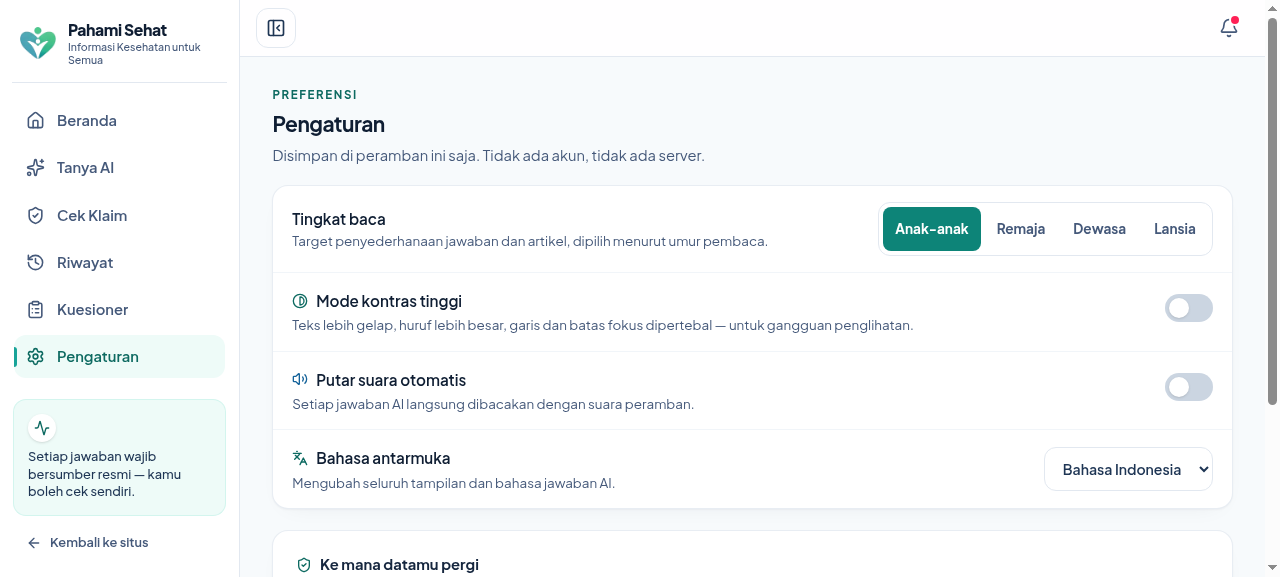
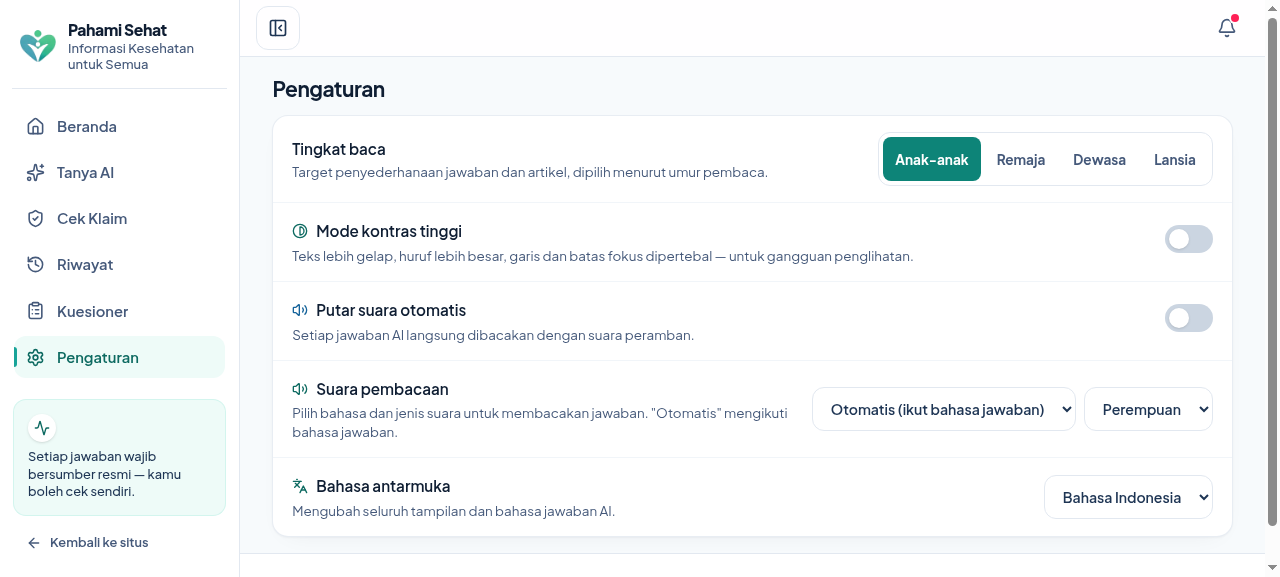
Perbarui README sesuai keadaan project 20 Okt 2026
Semua angka diukur ulang di sesi ini, bukan dikutip dari ingatan:

- jumlah uji: 17 -> 15 berkas (14 tanpa jaringan), 560 pemeriksaan
- berkas server: 22 -> 19 (akun.js, google.js, ruteAkun.js sudah dihapus)
- isi database: dokumen 79 -> 88, sitasi 246 -> 351, konten 6 -> 7
- kamus: 303 kunci per bahasa
- langkah CI: 23 (terukur lewat gh run view), sebelumnya 25
- suara lokal: 200 audio/mpeg, 24 kHz 48 kbps, 17.424 byte, 0,80 detik
- gzip /api/konten: 6.137 -> 1.912 byte (hemat 69%)
- X-Waktu-Ms /api/meta: 1,1 ms
- DB_MATI=1: health/konten/berita 200, tanya 200 (1.359 karakter, 5 sumber)
- produksi Vercel: app 200 tanpa halaman masuk, tanya 200 (1.023 karakter,
  4 sumber, 6,86 detik), suara 502, /api/akun/saya 404

Ikut dibetulkan:
- diagram Mermaid masih merujuk node T5/T7/T8 yang tabelnya sudah dihapus
- kalimat 'permintaan pengguna' dan 'jangan mencari set.privasi*' dihapus dari
  README publik; diganti pernyataan keadaan
- tangkapan layar Pengaturan diambil ulang karena gambar lama masih
  menampilkan kartu 'Ke mana datamu pergi' yang sudah dihapus

Diperiksa: tidak ada nama persona, tidak ada rahasia, semua gambar dan
tautan relatif ada, build hijau.

diff --git a/README.md b/README.md
@@ -10,7 +10,7 @@ sampai dan tidak dipahami oleh yang paling membutuhkan.
 > (`deepseek-v4-1-flash` lewat Kenari.id) dari server Express sendiri, dan
 > setiap jawaban disertai sumber yang bisa dibuka pengguna.
 >
-> **Status tiap fitur — apa adanya (diperiksa ulang 18 Okt 2026):**
+> **Status tiap fitur — apa adanya (diperiksa ulang 20 Okt 2026):**
 >
 > | Fitur | Keadaan |
 > |---|---|
@@ -18,7 +18,7 @@ sampai dan tidak dipahami oleh yang paling membutuhkan.
 > | Tanya AI + sumber | berjalan. Pencarian memakai kata kunci terpilih, bukan kalimat pengguna apa adanya |
 > | Sederhanakan teks | berjalan (4 tingkat baca), menjadi salah satu mode di komposer Tanya AI |
 > | Cek klaim | berjalan (verdict + sumber) |
-> | Suara dibacakan | **berjalan sebagai suara neural Microsoft — hanya di versi yang dijalankan di komputer sendiri.** Diukur ulang 18 Okt 2026: `POST /api/suara` menjawab `200 audio/mpeg`, berkas 24 kHz mono, 24.048 byte untuk satu kalimat, 1,08 detik. Di Vercel tetap **`502`** (diukur ulang 18 Okt 2026) karena fungsi serverless tidak bisa mempertahankan WebSocket — batas platform, bukan bug. Rincian: `app/server/suara.js` |
+> | Suara dibacakan | **berjalan sebagai suara neural Microsoft — hanya di versi yang dijalankan di komputer sendiri.** Diukur ulang 20 Okt 2026: `POST /api/suara` menjawab `200 audio/mpeg`, berkas 24 kHz mono 48 kbps, 17.424 byte untuk satu kalimat, 0,80 detik. Di Vercel tetap **`502`** (diukur ulang 20 Okt 2026) karena fungsi serverless tidak bisa mempertahankan WebSocket — batas platform, bukan bug. Rincian: `app/server/suara.js` |
 > | Input suara (bicara) | berjalan lewat Web Speech API bawaan peramban. **Butuh Chrome atau Edge**: Brave memblokir layanan suara daring Google, dan Firefox belum menyediakannya. Butuh konteks aman (`https://` atau `localhost`) |
 > | Pindai foto / OCR | berjalan, **seluruhnya di peramban**. Foto tidak pernah dikirim ke server, dan fitur ini tetap jalan tanpa internet. Batasnya disebut apa adanya di aplikasi: alat bantu baca, bukan pengganti dokumen asli |
 > | Riwayat obrolan | berjalan. Tersimpan di peramban (bukan server), maksimal **20 obrolan** (`MAKS_SESI` di `app/src/lib/sesi.js`). Bisa **dihapus satu per satu atau sekaligus**, dan penghapusan **bisa dibatalkan**. **Tidak lagi ditampilkan di Beranda** — hanya lewat menu **Riwayat** |
@@ -141,7 +141,7 @@ pahami-sehat/
 ├── README.md
 ├── jalankan-online.sh         ← build + server + Cloudflare Tunnel
 ├── siapkan-domain.sh          ← INERT: hanya untuk named tunnel (lihat catatan)
-├── uji-*.mjs                  ← 17 berkas uji (16 tanpa jaringan)
+├── uji-*.mjs                  ← 15 berkas uji (14 tanpa jaringan)
 ├── ukur-*.mjs                 ← pengukuran untuk memilih angka batas
 ├── verifikasi-judul.mjs
 ├── periksa-istilah.mjs
@@ -152,7 +152,7 @@ pahami-sehat/
 │   ├── .env.example
 │   ├── public/ocr/            ← mesin OCR: worker, core WASM, data bahasa (17 MB)
 │   ├── scripts/               ← salin-prototipe.mjs (prebuild)
-│   ├── server/                ← backend Express (22 berkas)
+│   ├── server/                ← backend Express (19 berkas)
 │   ├── src/                   ← frontend React: App.jsx, lib/, data/, components/
 │   ├── api/index.js           ← pintu masuk serverless Vercel
 │   ├── index.html
@@ -229,14 +229,11 @@ flowchart TB
   DBJ --> T3
   DBJ --> T4
   DBJ --> T6
-  DBJ -.->|"tersimpan, belum disambungkan"| T8
 
   classDef store fill:#eef,stroke:#446,color:#113
   classDef opsional fill:#ffe9c9,stroke:#a63,color:#420,stroke-dasharray:4 3
   class LS store
   class T1,T2,T3,T4,T6 store
-  class T7 opsional
-  class T5,T8 opsional
   class DBJ opsional
 ```
 
@@ -271,9 +268,9 @@ flowchart TB
 ### Tanpa akun — tidak ada gerbang masuk
 
 Diperiksa 20 Okt 2026: **aplikasi langsung terbuka di Beranda.** Tidak ada
-halaman masuk, pendaftaran, kata sandi, sesi, atau cookie. Permintaan jagi:
-hapus halaman login beserta seluruh bagian yang menopangnya, supaya tidak ada
-sisa gerbang yang bisa muncul lagi.
+halaman masuk, pendaftaran, kata sandi, sesi, atau cookie. Halaman login dihapus
+beserta seluruh bagian yang menopangnya, supaya tidak ada sisa gerbang yang bisa
+muncul lagi.
 
 Yang ikut dihapus, bukan hanya disembunyikan:
 
@@ -315,13 +312,14 @@ XAMPP) dipakai untuk menyimpan **bahan**, bukan percakapan pengguna. Kalau
 MariaDB mati, bahan tetap tersaji memakai berkas cache — `app/server/db.js`
 mengembalikan `null` alih-alih melempar galat.
 
-Dibuktikan ulang 18 Okt 2026 dengan `DB_MATI=1`:
+Dibuktikan ulang 20 Okt 2026 dengan `DB_MATI=1`:
 
 | Yang diperiksa | Hasil |
 |---|---|
 | `GET /api/health` | **HTTP 200**, `{"db":{"aktif":false,"alasan":"dimatikan lewat DB_MATI=1"}}` |
 | `GET /api/konten` | **HTTP 200** |
-| `POST /api/tanya` | **HTTP 200** dalam 9,25 detik, jawaban 732 karakter, **3 sumber** |
+| `GET /api/berita/ringkas` | **HTTP 200** |
+| `POST /api/tanya` | **HTTP 200**, jawaban 1.359 karakter, **5 sumber** |
 | `GET /api/akun/saya` | **HTTP 404** — rute akun sudah tidak ada |
 
 #### Yang disimpan di database
@@ -339,10 +337,10 @@ menjalankan `DROP TABLE IF EXISTS riwayat, setelan, pengguna` untuk
 membersihkan sisa pemasangan lama — jadi tidak ada tabel identitas yang bisa
 terisi lagi tanpa sengaja.
 
-Isi database pada 18 Okt 2026 (hitungan langsung, bukan perkiraan):
-`pengetahuan` **331** baris (270 dari MedlinePlus, 61 dari Wikipedia) ·
-`sumber` **19** baris · `dokumen` **79** · `sitasi` **246** · `berita` 3 ·
-`konten` 6.
+Isi database pada 20 Okt 2026 (hitungan langsung lewat `COUNT(*)`, bukan
+perkiraan `table_rows`): `pengetahuan` **331** baris (270 dari MedlinePlus,
+61 dari Wikipedia) · `sumber` **19** baris · `dokumen` **88** ·
+`sitasi` **351** · `berita` 3 · `konten` 7.
 
 #### Jejak sitasi — cara memeriksanya
 
@@ -572,7 +570,7 @@ Itu pilihan yang disengaja: kalau berkasnya diambil dari CDN, pemindaian akan
 mengirim permintaan ke pihak ketiga — dan janji "foto tidak keluar dari
 perangkat" jadi tidak benar.
 
-Isi `app/public/ocr/` (diukur 18 Okt 2026: **17.048.779 byte ≈ 17 MB**):
+Isi `app/public/ocr/` (diukur 20 Okt 2026: **17.048.779 byte ≈ 17 MB**, 6 berkas):
 
 | Berkas | Asal |
 |---|---|
@@ -746,10 +744,10 @@ salah, sehingga tidak akan ketahuan dari uji fitur maupun build yang lulus:
 
 | Yang dijaga | Kenapa penting |
 |---|---|
-| Respons besar dikompresi (gzip) | Diukur 18 Okt 2026: `/api/konten` **6.370 → 1.959 byte (hemat 69%)**. Tanpa ini aplikasi tetap jalan — hanya lambat di jaringan seluler. |
+| Respons besar dikompresi (gzip) | Diukur 20 Okt 2026: `/api/konten` **6.137 → 1.912 byte (hemat 69%)**. Tanpa ini aplikasi tetap jalan — hanya lambat di jaringan seluler. |
 | JSON rusak dijawab **400**, bukan 500 | Kalau salah, kesalahan klien dilaporkan sebagai kesalahan server: pengguna disuruh "coba lagi" padahal isinya yang salah, dan pemantauan melihat 500 seolah server kita yang rusak. |
 | `/api/*` tak dikenal → **JSON** | Bawaan Express membalas halaman HTML yang **menyebut "Express"** — memberitahu penyerang kerangka yang dipakai, sekaligus menyesatkan klien yang mengharap JSON. |
-| `X-Waktu-Ms` di setiap respons | Menjawab "lambat di server atau di jaringan?" tanpa membuka log. Terukur 18 Okt 2026: `0.3` ms untuk `/api/meta`. Permintaan > 3 detik juga dicatat di log sebagai `[lambat]`. |
+| `X-Waktu-Ms` di setiap respons | Menjawab "lambat di server atau di jaringan?" tanpa membuka log. Terukur 20 Okt 2026: `1.1` ms untuk `/api/meta`. Permintaan > 3 detik juga dicatat di log sebagai `[lambat]`. |
 
 Ditambah tiga kepala keamanan (`app/server/kepala.js`): `X-Powered-By`
 dimatikan, `X-Content-Type-Options: nosniff`, dan
@@ -793,9 +791,10 @@ dipetakan benar-benar ada.
 
 `.github/workflows/uji.yml` menjalankan seluruh uji di atas ditambah
 `node --check` dan `npm run build` pada setiap push dan pull request ke `main`.
-Jumlah langkahnya berkurang dua setelah `uji-akun.mjs` dan `uji-google.mjs`
-dihapus; hitung ulang lewat `gh run view --json jobs --jq '.jobs[].steps[]'`
-pada jalannya yang berikutnya, jangan memakai angka lama.
+Diukur 20 Okt 2026 lewat `gh run view <id> --json jobs --jq '.jobs[].steps[]'`:
+**23 langkah** (termasuk `Set up job`, dua `Post …`, dan `Complete job`), dan
+semuanya `success` pada commit `8ada582`. Sebelum fitur akun dihapus angkanya
+25 — dua langkah `uji-akun.mjs` dan `uji-google.mjs` ikut hilang.
 
 Dua hal yang **tidak** dijalankan di CI, dan alasannya disebut apa adanya:
 `uji-jawaban.mjs` butuh `KENARI_API_KEY` (rahasia tidak boleh jadi penentu pada
@@ -894,18 +893,16 @@ dan Jejaknya** (`docs/prototipe/index.html`, `id="etika"`).
 | Teks pertanyaan | **Hanya ini** yang dikirim ke server, karena model AI memang perlu membacanya. |
 
 Batas yang jujur disebut: teks pertanyaan diproses oleh **layanan model AI pihak
-ketiga** (Kenari.id). Peringatan agar pengguna tidak menuliskan nama lengkap,
-NIK, nomor rekam medis, atau alamat rumah tetap ada di halaman penjelasan
-(`docs/prototipe/index.html`) — kartu peringatan di panel **Pengaturan** sudah
-dihapus 20 Okt 2026 atas permintaan jagi, jadi jangan mencari `set.privasi*`
-di kamus lagi.
+ketiga** (Kenari.id). Karena itu halaman penjelasan memperingatkan pengguna agar
+tidak menuliskan nama lengkap, NIK, nomor rekam medis, atau alamat rumah di
+dalam pertanyaan (`docs/prototipe/index.html`, bagian
+**Privasi, Etika AI, dan Jejaknya**).
 
 **Tidak ada identitas yang diminta, sama sekali.** Tidak ada email, nomor
 telepon, kata sandi, nama panggilan, atau data pribadi lain yang dikirim ke
-server — karena tidak ada formulir yang memintanya. Aplikasi ini bahkan
-memperingatkan pengguna agar tidak menuliskan nama lengkap, NIK, nomor rekam
-medis, atau alamat rumah di dalam pertanyaan. Isi percakapan tidak pernah
-dipakai untuk analitik.
+server — karena tidak ada formulir yang memintanya. Panel **Pengaturan** hanya
+memuat preferensi tampilan (tingkat baca, kontras, suara, bahasa) dan tidak
+meminta data apa pun. Isi percakapan tidak pernah dipakai untuk analitik.
 
 Bahan publik (berita RSS, artikel Kemenkes, salinan berlabel tanggal dari
 sumber resmi) tersimpan di database bahan dan tidak berisi apa pun tentang
@@ -1044,15 +1041,16 @@ quick tunnel. Tidak perlu dijalankan.
 ## Alamat produksi (Vercel)
 
 Repo ini masih tersambung ke Vercel dan deploy otomatis berjalan setiap push ke
-`main`. Diukur 18 Okt 2026:
+`main`. Diukur ulang 20 Okt 2026 (setelah fitur akun dihapus):
 
 | Yang diperiksa | Hasil |
 |---|---|
-| `https://pahami-sehat.vercel.app/app` | **200** |
-| `POST /api/tanya` di produksi | **200** dalam 7,14 detik, jawaban 757 karakter, **4 sumber** |
+| `https://pahami-sehat.vercel.app/app` | **200** — langsung Beranda, tanpa halaman masuk |
+| `POST /api/tanya` di produksi | **200** dalam 6,86 detik, jawaban 1.023 karakter, **4 sumber** |
 | `GET /api/berita/ringkas` di produksi | **200**, berisi berita |
 | `GET /api/health` di produksi | **200**, `db: {"aktif":false}` (Vercel tanpa MariaDB) |
 | `POST /api/suara` di produksi | **502** — fungsi serverless tidak bisa mempertahankan WebSocket |
+| `GET /api/akun/saya` di produksi | **404** — rute akun sudah tidak ada |
 
 Karena itu **mode Grand Final tetap memakai `npm start` di laptop sendiri**, bukan
 alamat Vercel: hanya di situ suara neural bisa bekerja penuh.

diff --git a/app/README.md b/app/README.md
@@ -80,7 +80,7 @@ app/
 ├── api/index.js              pintu masuk serverless Vercel
 ├── public/ocr/               mesin OCR: worker, core WASM, data bahasa (17 MB)
 ├── scripts/salin-prototipe.mjs  menyalin docs/prototipe -> dist/ (prebuild)
-├── server/                   backend Express — 22 berkas
+├── server/                   backend Express — 19 berkas
 │   ├── index.js              rute + penyajian hasil build
 │   ├── config.js             baca env, validasi key
 │   ├── rute.js               endpoint /api/*
